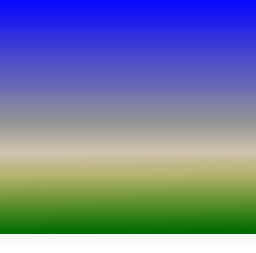
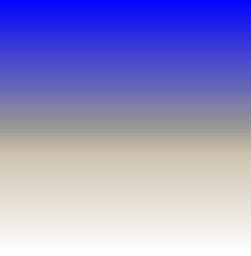
Many fixes

Changed region(s): [[0.0, 0.6087, 1.0, 0.9407]]

diff --git a/resources/descriptions/NDWI.md b/resources/descriptions/NDWI.md
@@ -2,11 +2,11 @@
 
 NDVWI (Normalized Difference Water Index) is a simple enhancement used to monitor changes in water content of leaves using the difference of the two channels used by this enhancement (1.61 and 0.863 µm).
 
+THIS ENHANCEMENT IS EXPERIMENTAL
+
 ### Appearance
 
-Liquid water appears light blue, including flooding.
-Land with vegetation with increasing content of water appears progressively more green.
-Deserts appear gray.
+Scale going from deep blue (high leaf water content) to light blue (low leaf water content)
 Clouds and ambiguous areas appear gray.
 
 
